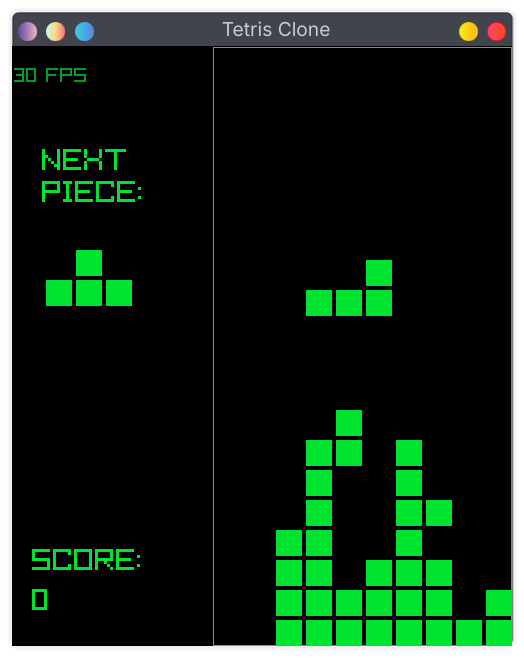
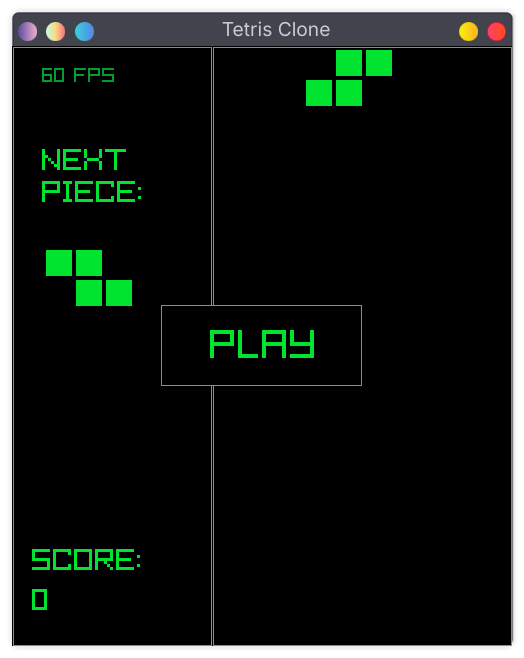
preview update and fix broken link

diff --git a/README.md b/README.md
@@ -1,6 +1,7 @@
 # Tetris clone made with raylib in C
 Learning raylib and C by making clone of the game of tetris
-[Play on web!!](https://sharmarahul111/github.io/)
+
+## [Play NOW!!](https://sharmarahul111.github.io/tetris-clone-raylib/)
 ![Preview Image](preview.png)
 
 ### ⚠ Disclaimer
